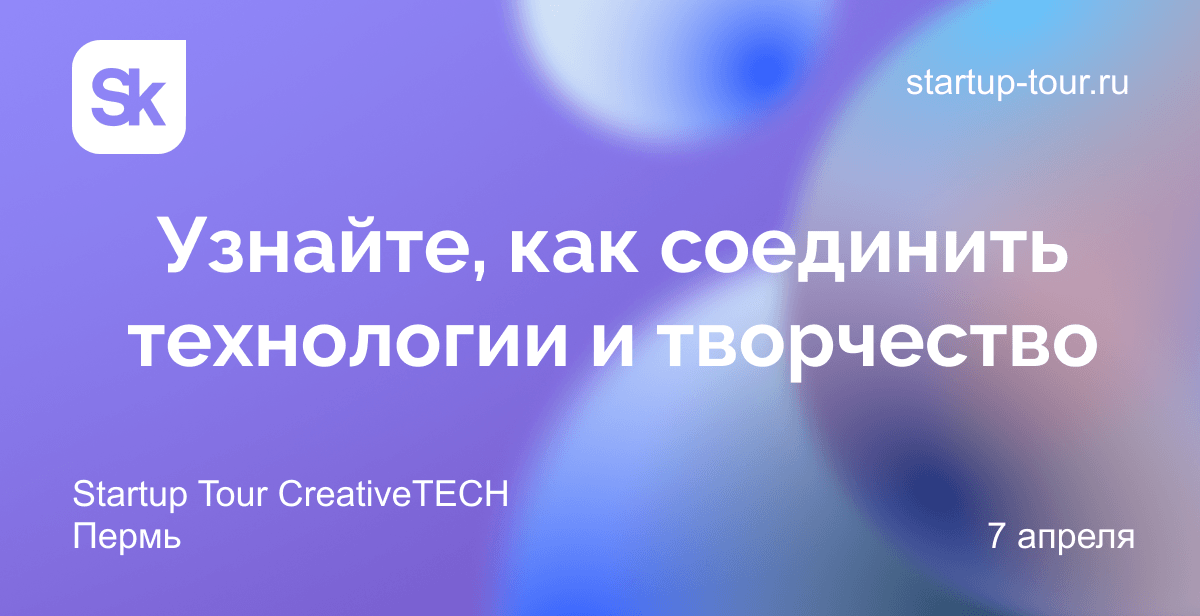
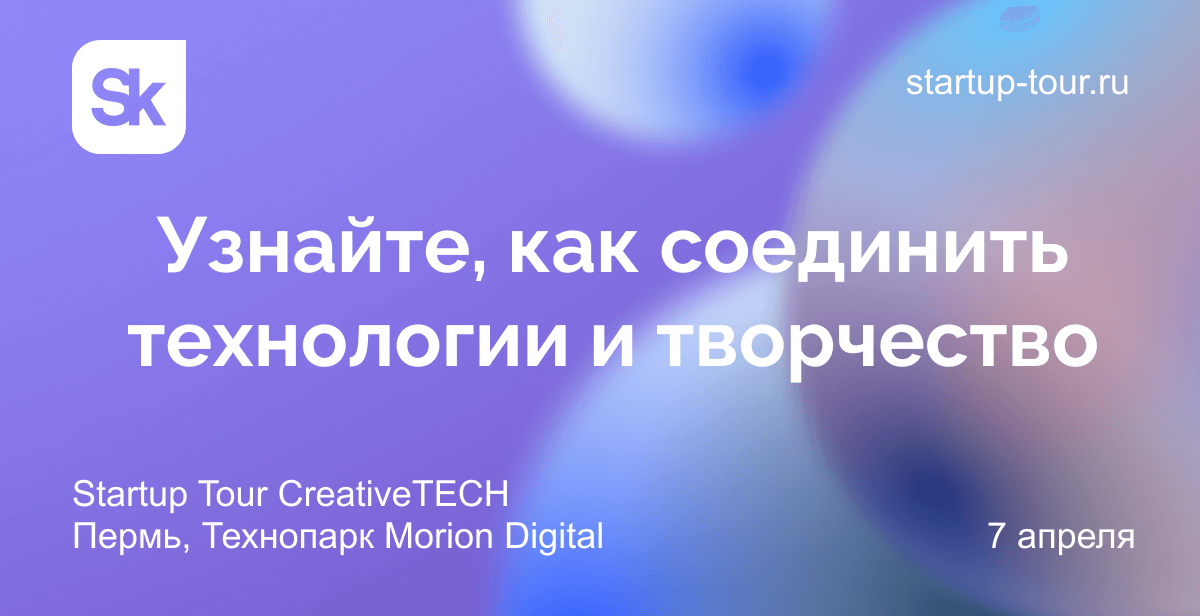
change perm img

Changed region(s): [[0.1542, 0.8328, 0.5242, 0.8945]]

diff --git a/perm-startup-expo-2023/email_perm.html b/perm-startup-expo-2023/email_perm.html
@@ -193,7 +193,7 @@
                                   <img
                                     alt="Hero cover"
                                     height="auto"
-                                    src="https://i.ibb.co/jT3qdRP/title-img.png"
+                                    src="https://i.ibb.co/wcQVKG8/title-img.png"
                                     style="
                                       border: 0;
                                       display: block;
